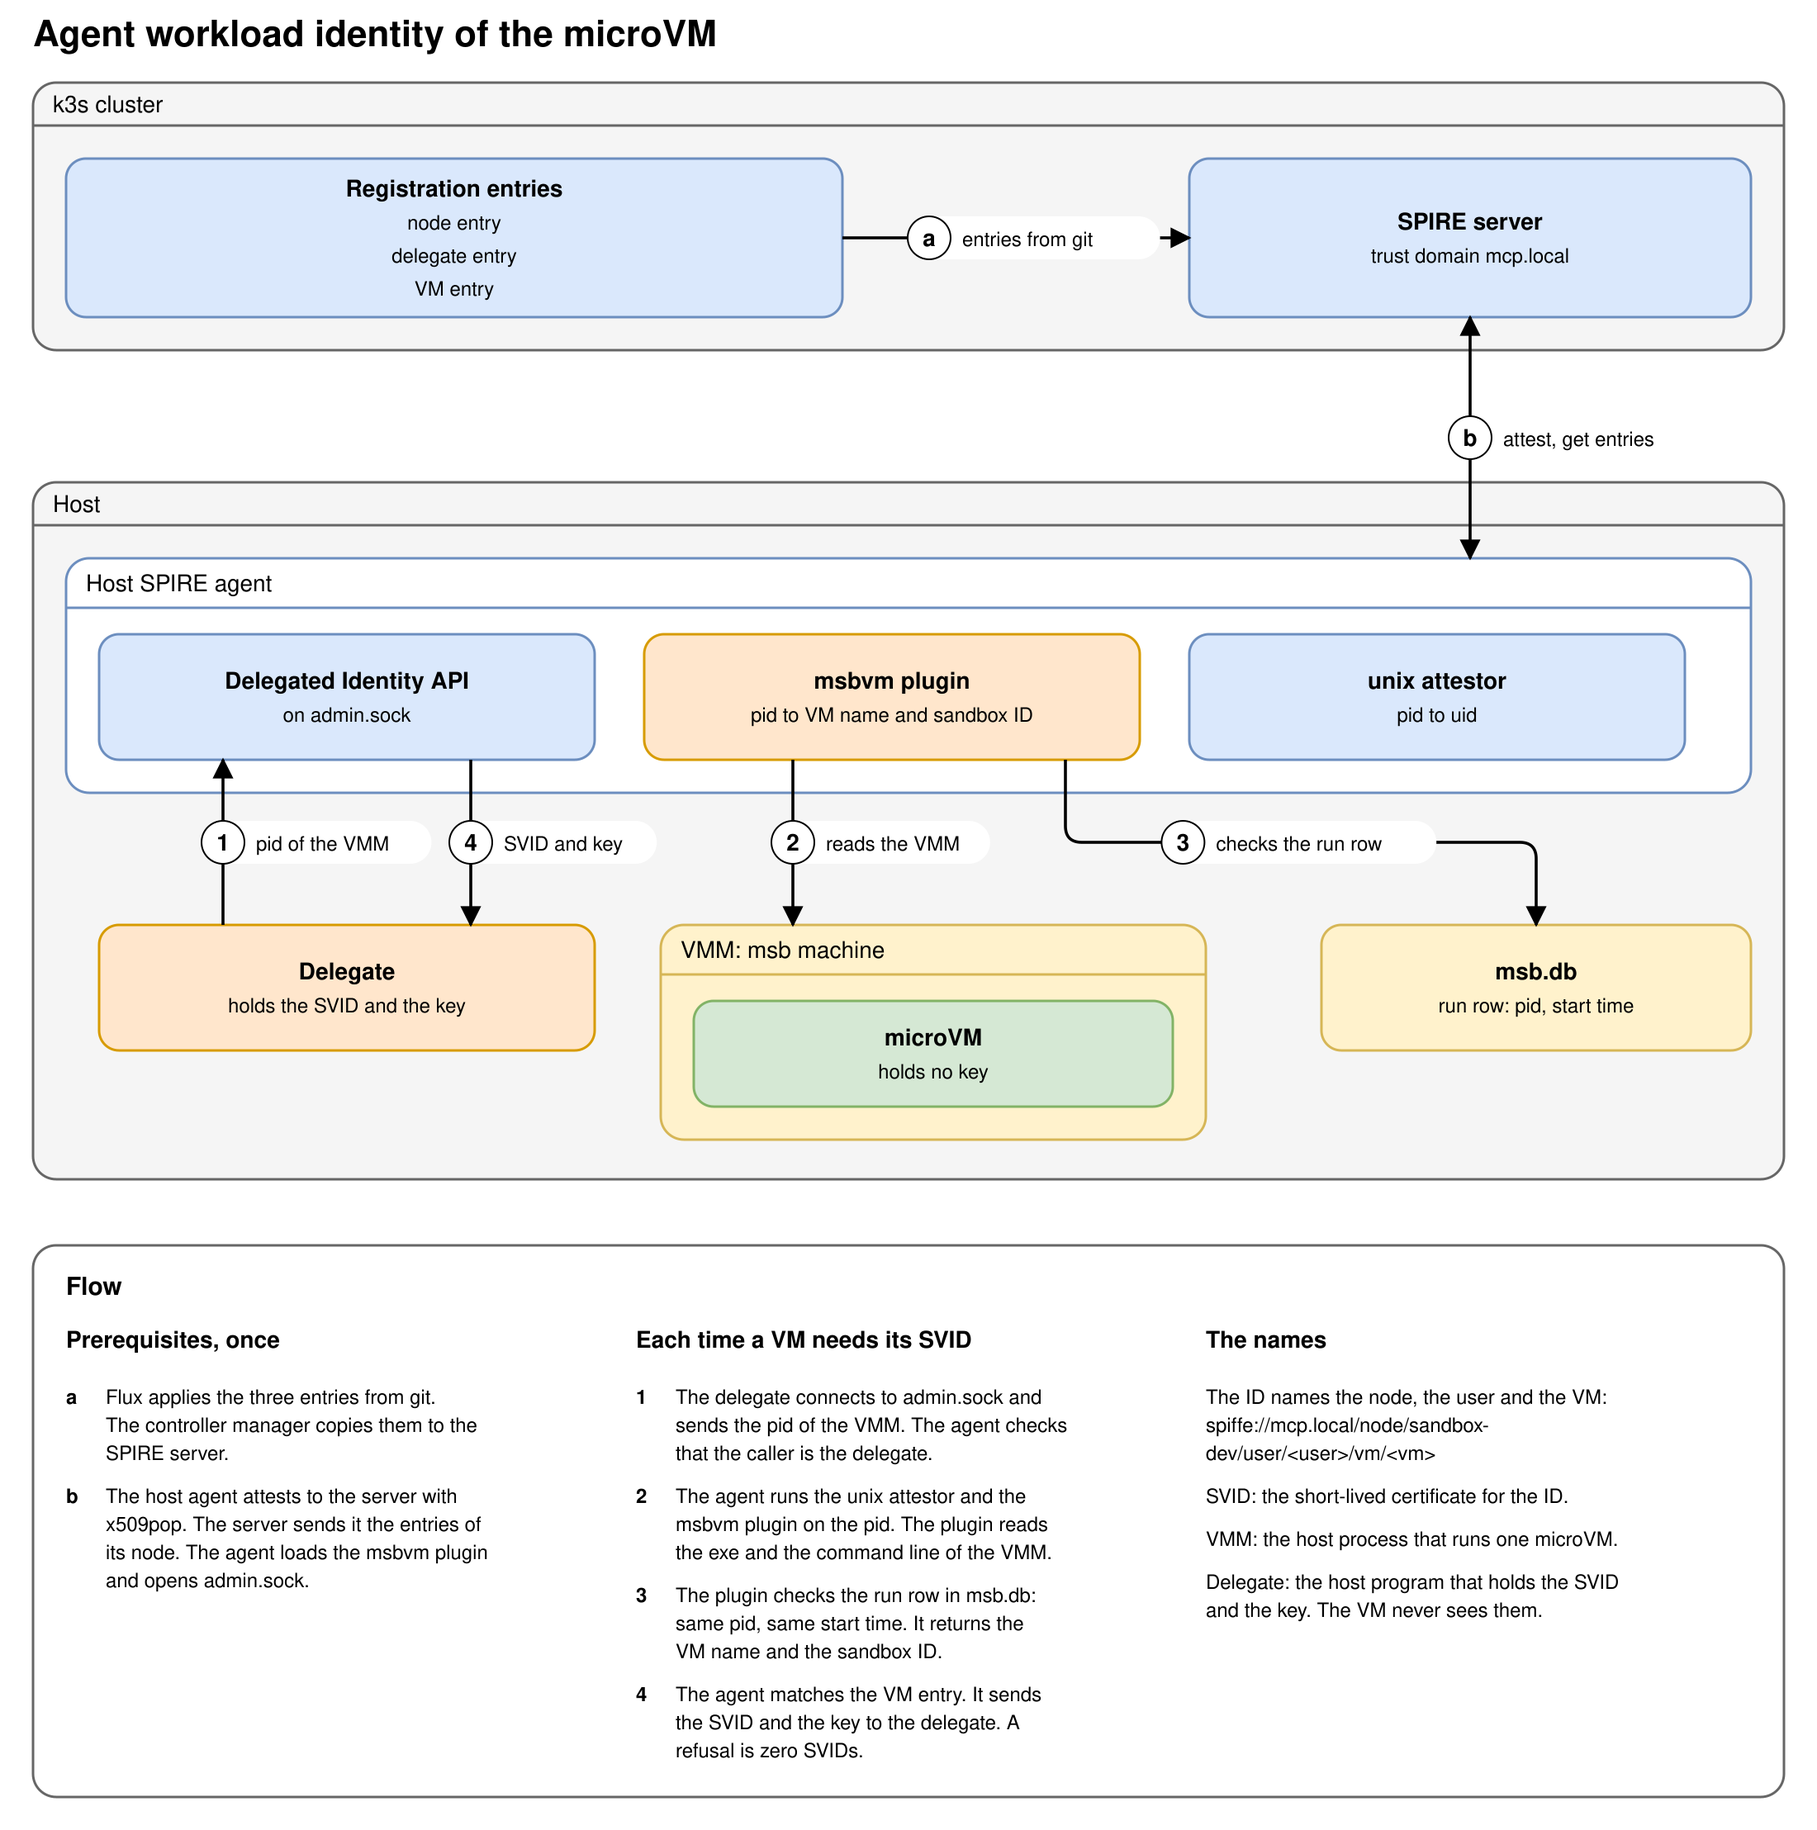
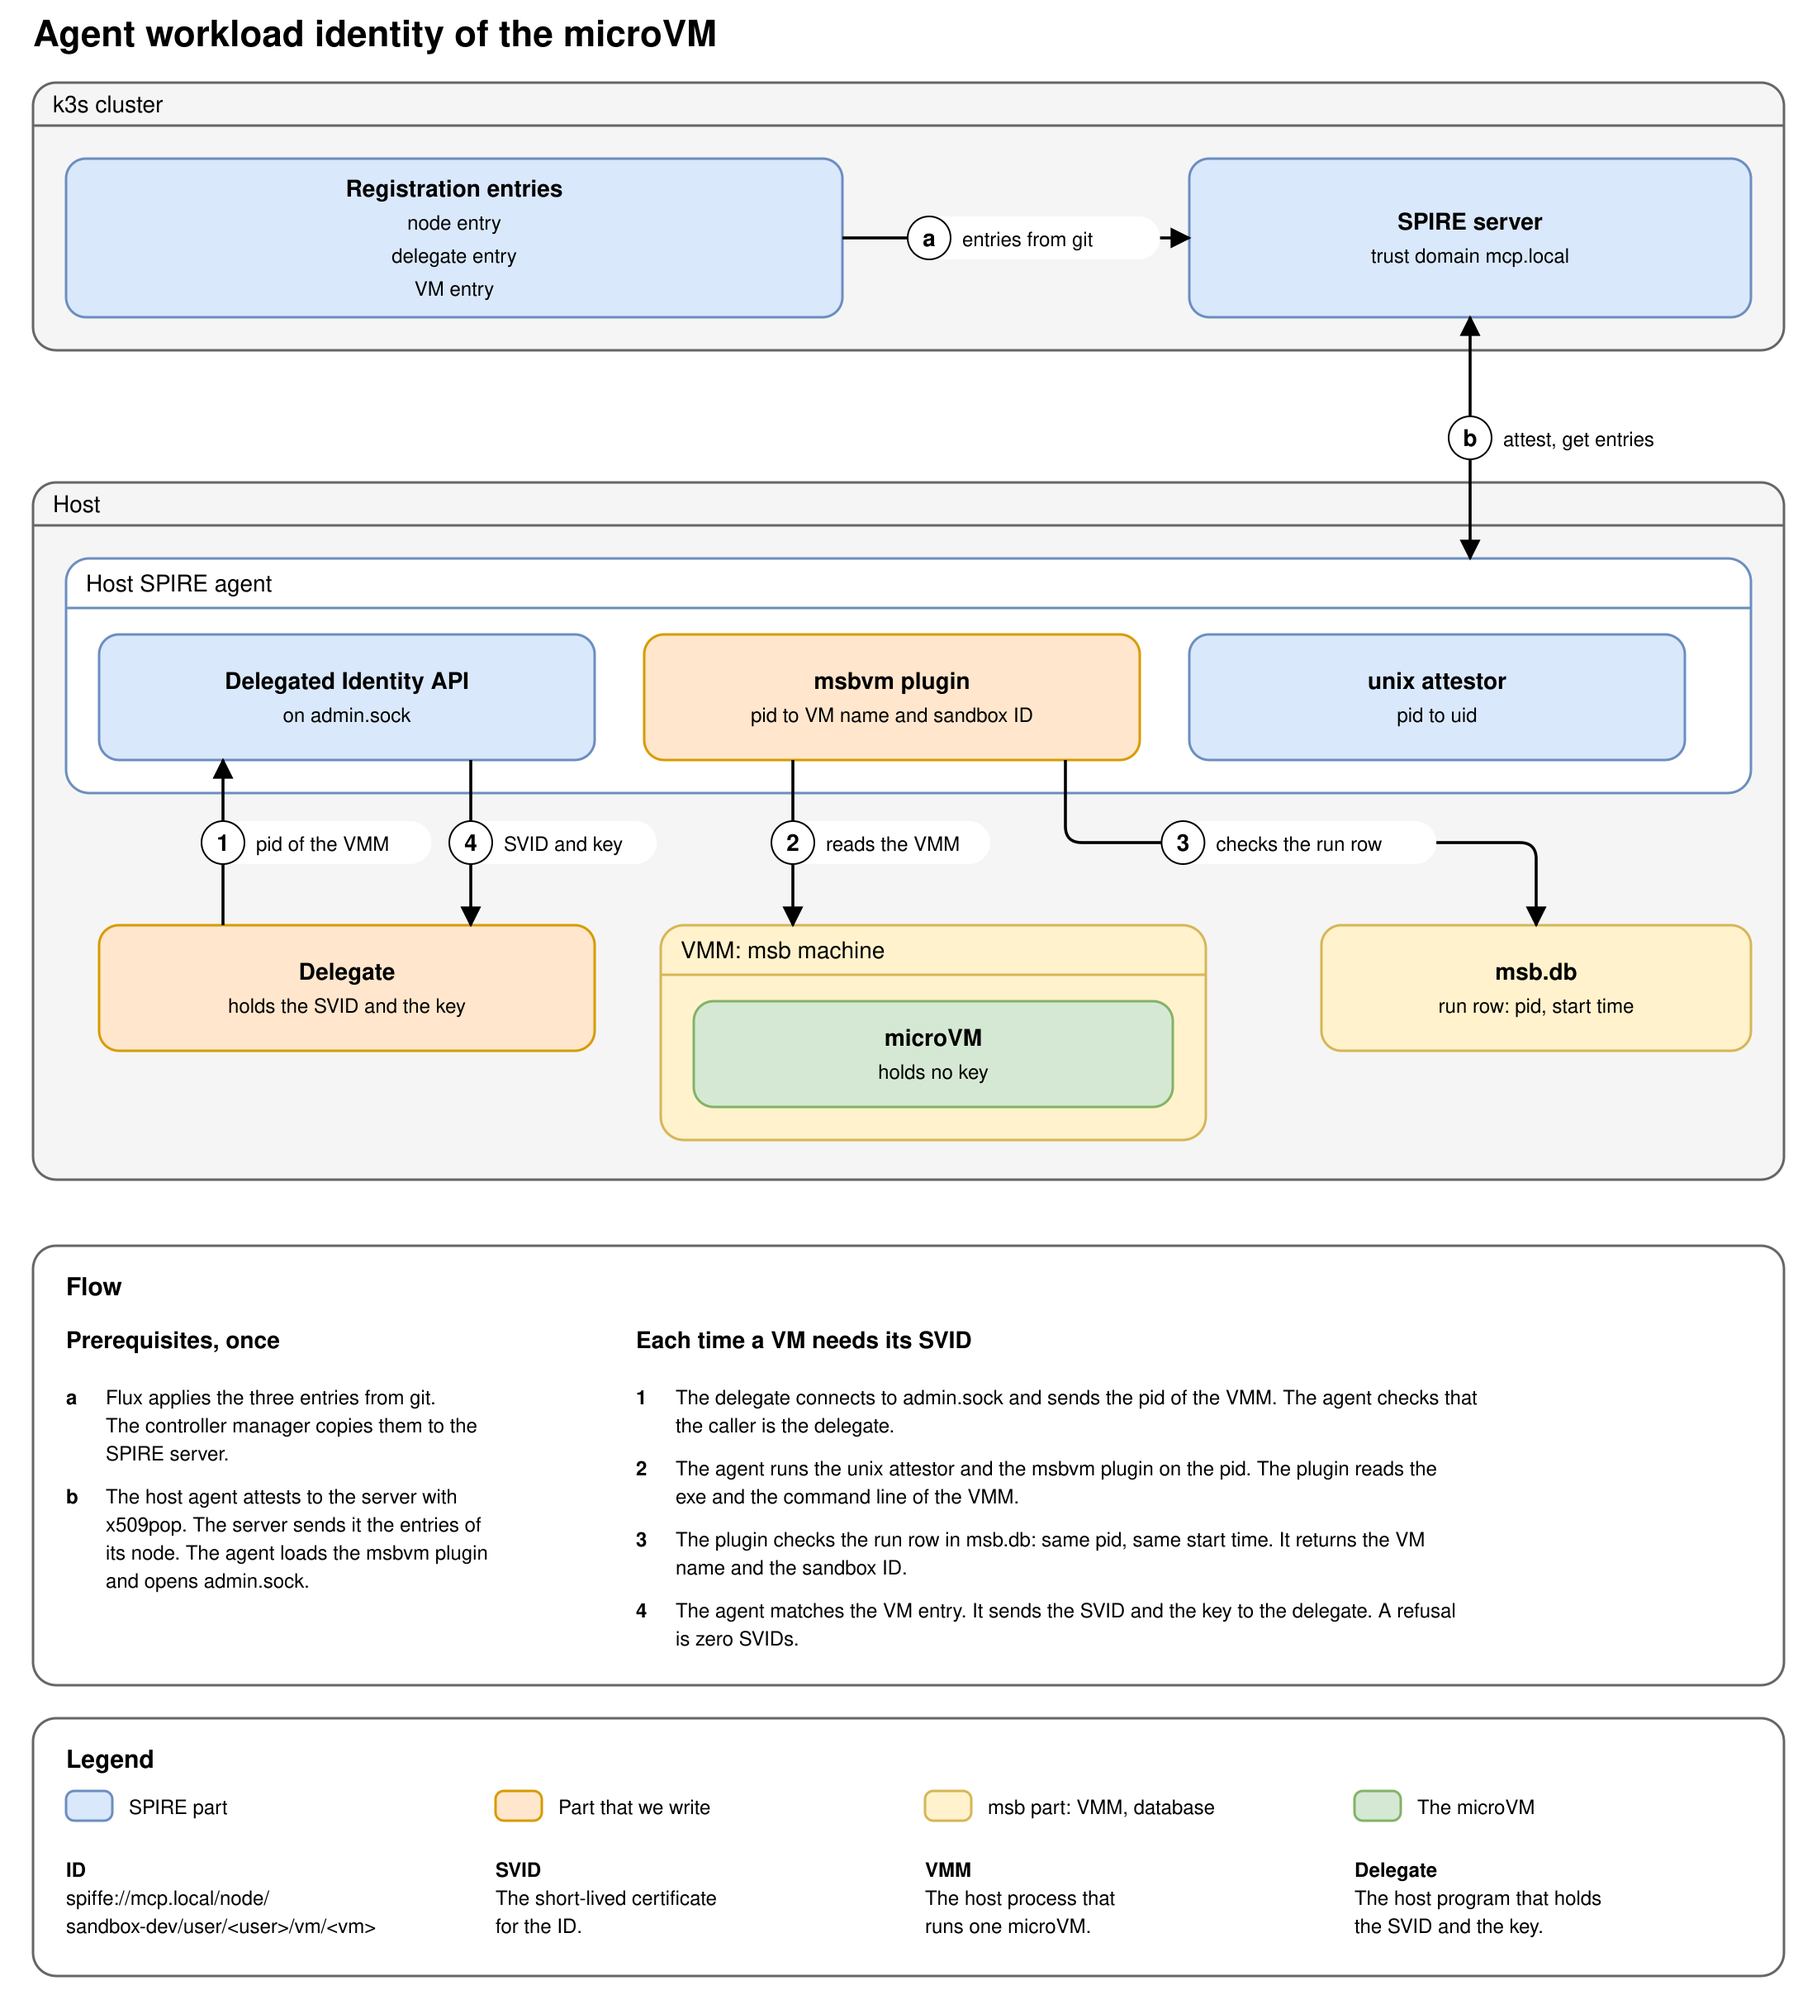
docs: add a legend to the agent workload identity diagram
Replace the names column of the flow panel with a legend strip. It shows the
colors and the names ID, SVID, VMM and delegate. The flow panel keeps two
wider columns.

diff --git a/code/agent-workload-identity/docs/diagrams/README.md b/code/agent-workload-identity/docs/diagrams/README.md
@@ -2,5 +2,5 @@
 
 | File | Use |
 |---|---|
-| `agent-workload-identity.drawio` | The source of the diagram in [workload-attestation.md](../workload-attestation.md). It shows the server with its entries and the host SPIRE agent. The agent has the Delegated Identity API, the `msbvm` plugin and the `unix` attestor. It also shows the delegate, the VMM with the microVM, and `msb.db`. A flow panel below the diagram repeats the steps in words. |
+| `agent-workload-identity.drawio` | The source of the diagram in [workload-attestation.md](../workload-attestation.md). It shows the server with its entries and the host SPIRE agent. The agent has the Delegated Identity API, the `msbvm` plugin and the `unix` attestor. It also shows the delegate, the VMM with the microVM, and `msb.db`. A flow panel below the diagram repeats the steps in words. A legend explains the colors and the names ID, SVID, VMM and delegate. |
 | `agent-workload-identity.svg`, `agent-workload-identity.png` | The same diagram as images. A script drew them from the same coordinates as the `.drawio` file. After an edit of the `.drawio` file, export new images from draw.io. The PNG is 2x with a white background. |

diff --git a/code/agent-workload-identity/docs/workload-attestation.md b/code/agent-workload-identity/docs/workload-attestation.md
@@ -20,7 +20,7 @@ The ID has three parts: the node, the user and the VM. Example: `spiffe://mcp.lo
 
 ![Agent workload identity of the microVM: the host agent, the delegate and the msbvm plugin](diagrams/agent-workload-identity.svg)
 
-The letters a and b are the prerequisites. They happen once. The numbers 1 to 4 happen each time a VM needs its SVID. The panel below the diagram repeats the steps in words. The orange parts are the ones that we write. The flows below show more detail: the entries, the checks of the plugin and each phase.
+The letters a and b are the prerequisites. They happen once. The numbers 1 to 4 happen each time a VM needs its SVID. The panel below the diagram repeats the steps in words. The legend explains the colors and four names. The flows below show more detail: the entries, the checks of the plugin and each phase.
 
 ## The cast
 
